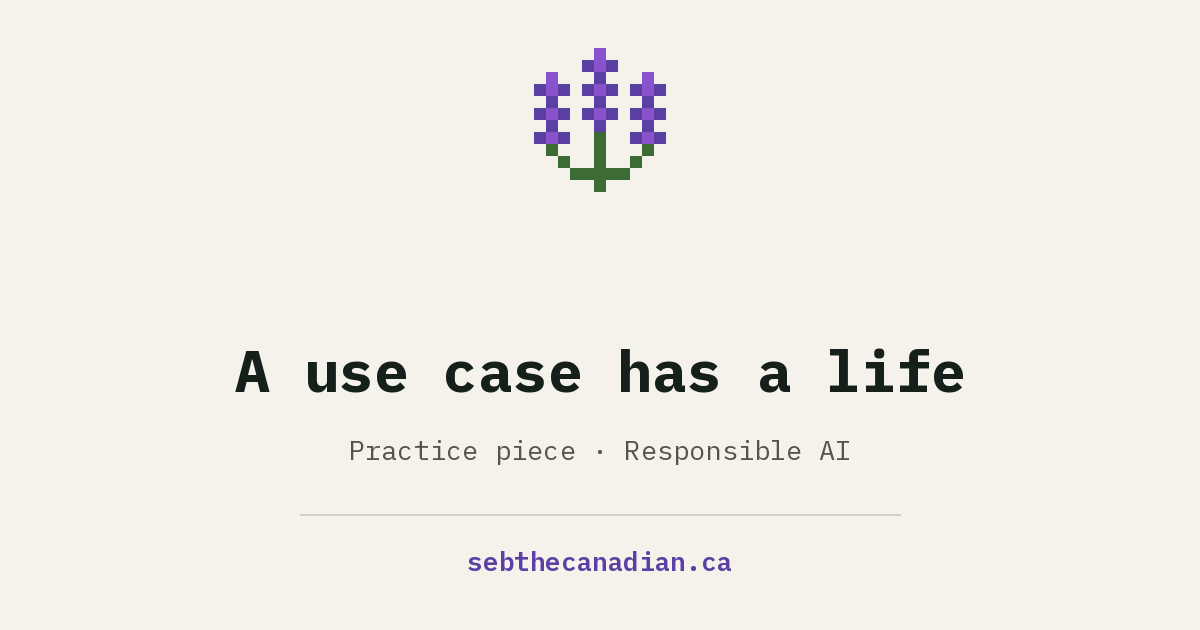
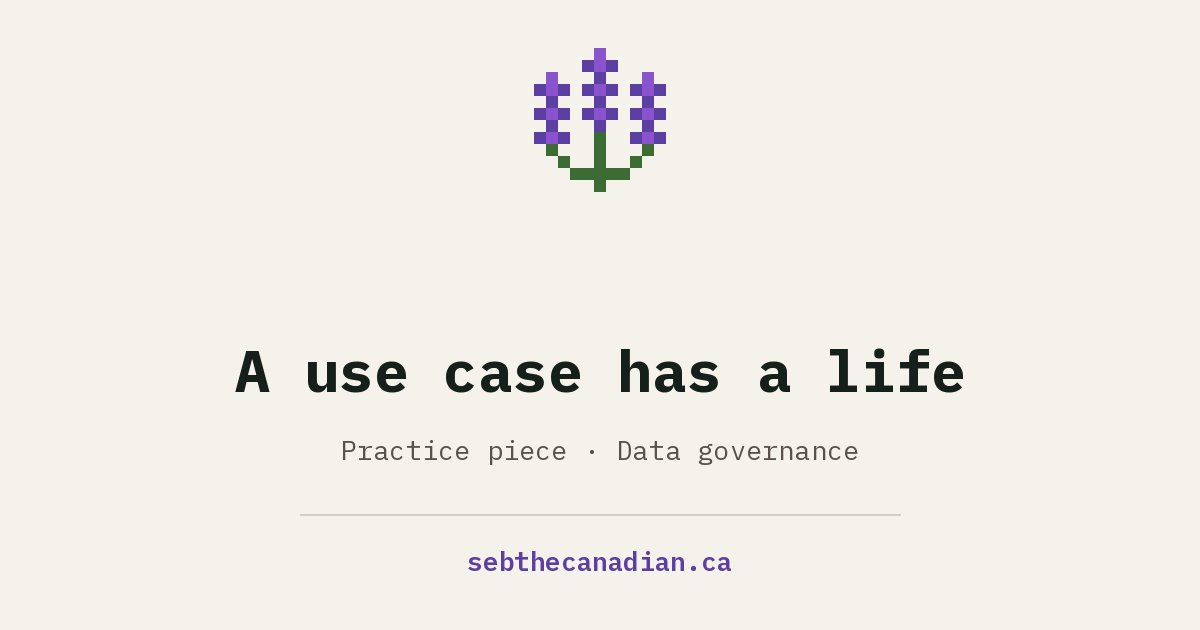
case-study(use-case-life): description in one breath; card names data governance; script header
Description now reads "A practice piece in data governance: one way I've
designed a Responsible AI intake ...". The card subtitle is now
"Practice piece · Data governance" (title unchanged). The figure script
gets a three-line header saying where it came from and how it loads.

Claude-Session: https://claude.ai/code/session_01UgwUQnccV1Y3tBedmcgovw

Changed region(s): [[0.2775, 0.6937, 0.7092, 0.754]]

diff --git a/src/assets/js/case-studies/use-case-life.js b/src/assets/js/case-studies/use-case-life.js
@@ -1,3 +1,6 @@
+// Moved verbatim from the use-case-life story page (src/projects/use-case-life/index.njk).
+// Loaded with defer after case-study.js, which defines the Pudding helpers this uses.
+// Edits to this file do not change the story's clearance hash.
 (function(){
   const form=document.getElementById("toyForm");
   // [field, question, short plain label, principle chips, default]
